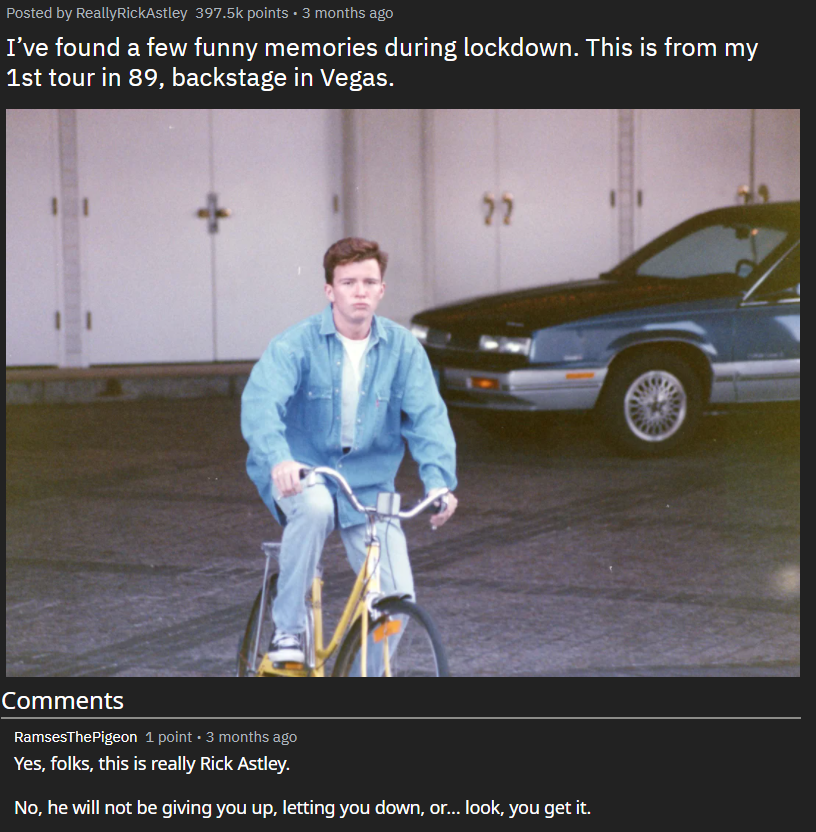
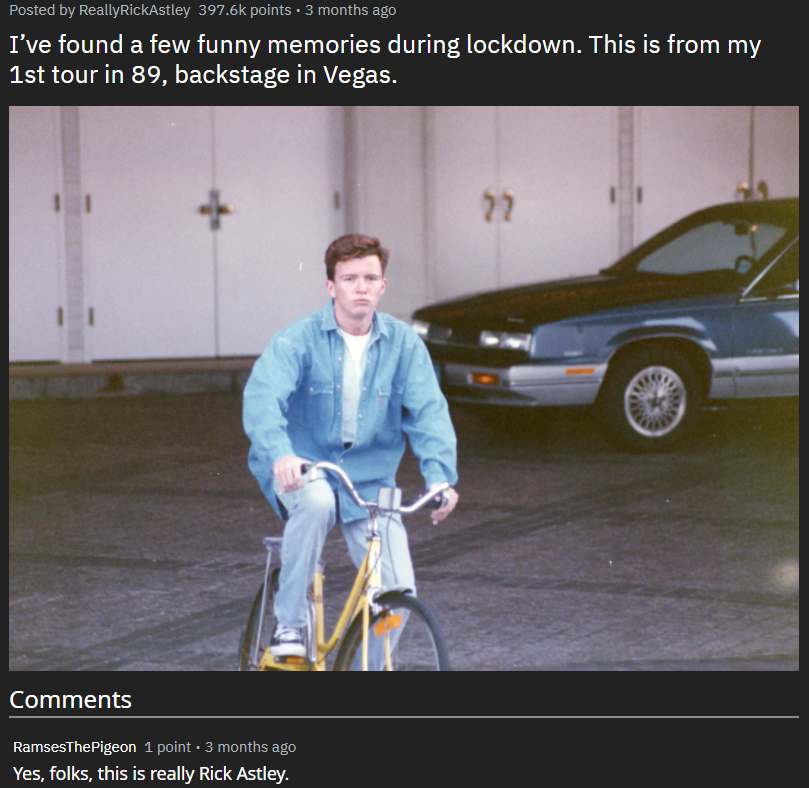
Updated preview image removed post_padding

diff --git a/red.js b/red.js
@@ -60,12 +60,11 @@ poster_src,
 `;
 
 const Post = ({
-left_padding,
 post_header,
 post_title,
 post_body,
 }) =>`
-<div class="comment" style="padding-left:${left_padding}px">
+<div class="comment">
   ${post_header}
   ${post_title}
   ${post_body}
@@ -109,7 +108,6 @@ const defaults = {
   show_post_title: true,
   show_post_header: true,
   show_post_body: true,
-  post_padding: 0,
   show_comments_section: true,
   show_comments_section_header: true,
   ignore_sticky_comments: false,
@@ -285,7 +283,6 @@ function renderDiv(response, div, opts = defaults){
     }
 
     const post = Post({
-      left_padding: opts.post_padding,
       post_header: opts.show_post_header ? post_header:'',
       post_title: opts.show_post_title ? post_title:'',
       post_body: opts.show_post_body ? post_body:'',
@@ -295,9 +292,10 @@ function renderDiv(response, div, opts = defaults){
 
   if(opts.show_comments_section && opts.show_comments_section_header){
     outputHTML.push(`
-      <h3 class="comment-header">Comments</h3>
-      <hr class="comment-seperator"/>
-
+      <div class="comment">
+        <h3 class="comment-header">Comments</h3>
+        <hr class="comment-seperator"/>
+      </div>
       `)
   }
 

diff --git a/demos/basic_demo.html b/demos/basic_demo.html
@@ -7,7 +7,7 @@
    to change at the start of a NEW script tag */
   red.setDefaults({
     show_comments_section_header:false,
-    post_padding: 100,
+    initial_padding: 100,
   })
   // Call embedAll after HTML content is loaded
   window.onload = red.embedAll
@@ -15,4 +15,4 @@
 <!-- Make sure any div you use has the reddit-embed class or embedAll() won't target it -->
 <!-- Note that options specified here will override defaults -->
 <!-- Also note that the opts attribute must be valid JSON -->
-<div class="reddit-embed" red-opts='{"post_padding": 6}' red-href="https://www.reddit.com/r/pics/comments/7pnxv2/meeting_keanu_reeves_at_a_traffic_light/about.json" ></div>
+<div class="reddit-embed" red-opts='{"initial_padding": 10}' red-href="https://www.reddit.com/r/pics/comments/7pnxv2/meeting_keanu_reeves_at_a_traffic_light/about.json" ></div>

diff --git a/index.html b/index.html
@@ -79,7 +79,6 @@
   "show_post_title": true,
   "show_post_header": true,
   "show_post_body": true,
-  "post_padding": 0,
   "show_comments_section": true,
   "show_comments_section_header": true,
   "ignore_sticky_comments": false,
@@ -95,7 +94,7 @@
     <button type="button" class="btn btn-primary ml-1 mt-2" data-toggle="collapse" data-target="#settings">Collapse</button>
   </div>
   <hr style="background: #3498db; margin-bottom:0; margin-top:0.7rem"/>
-  <div id="out" class="center reddit-embed"></div>
+  <div id="out" class="reddit-embed center"></div>
 
 
 </body>
